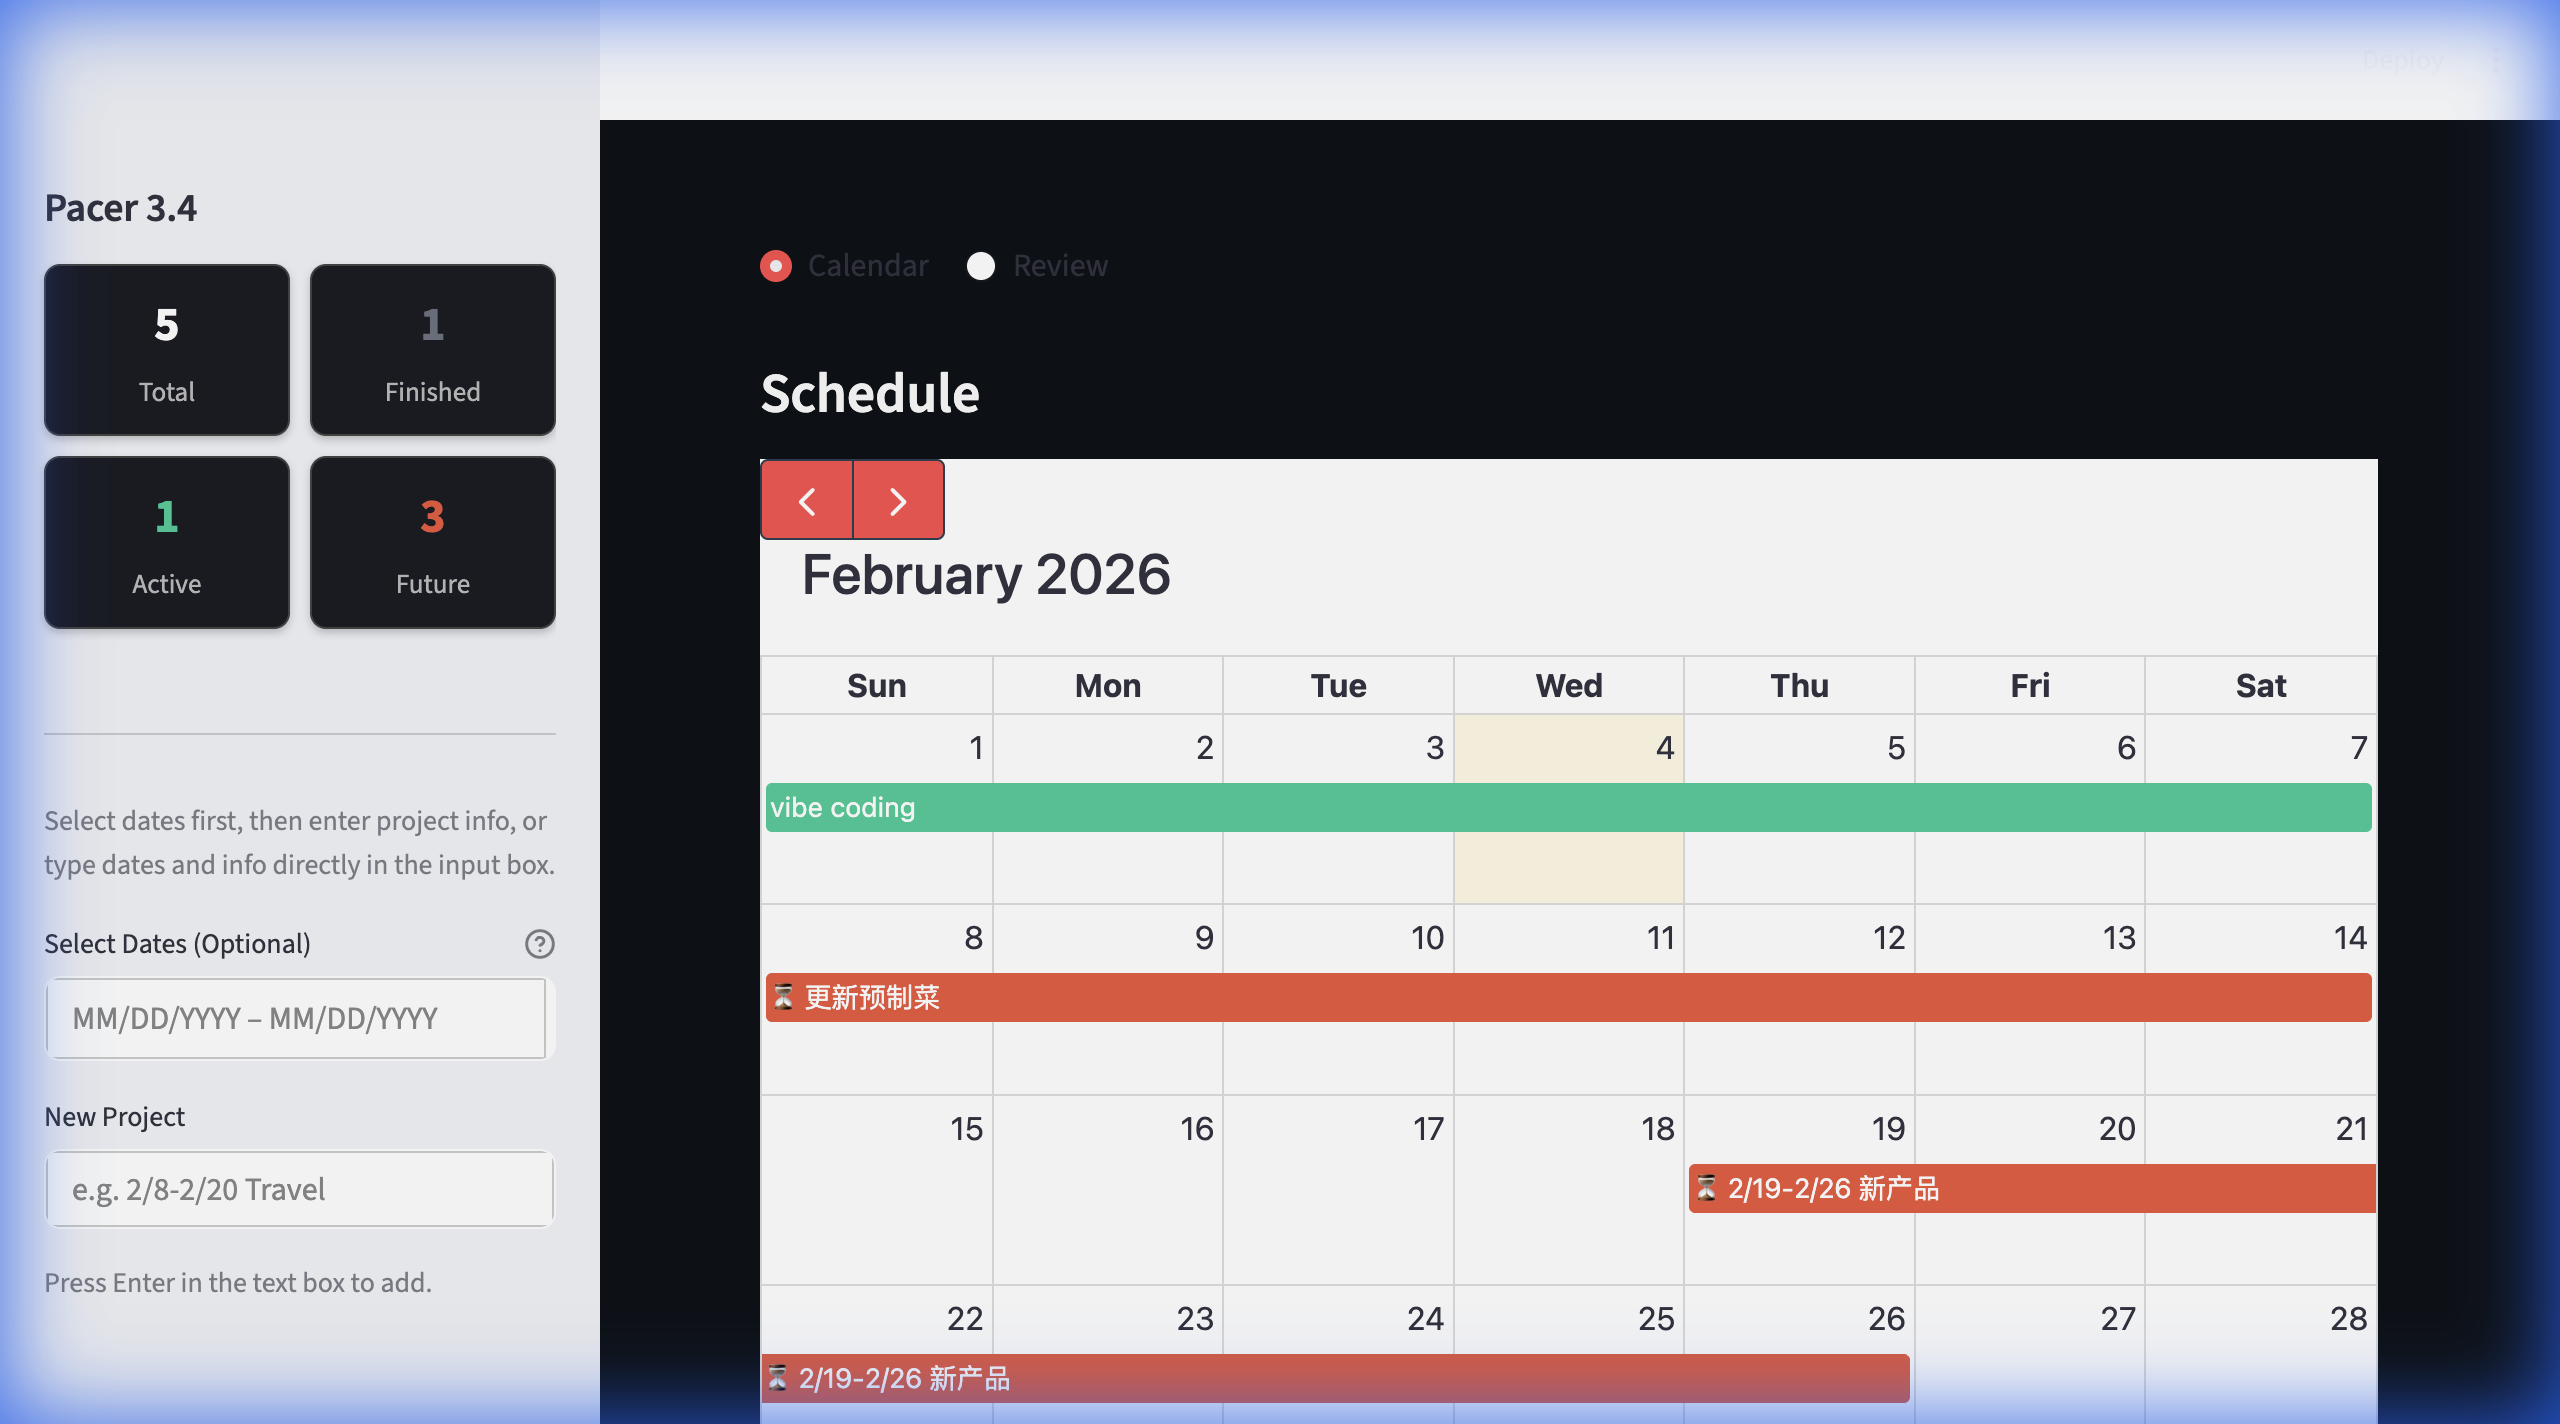
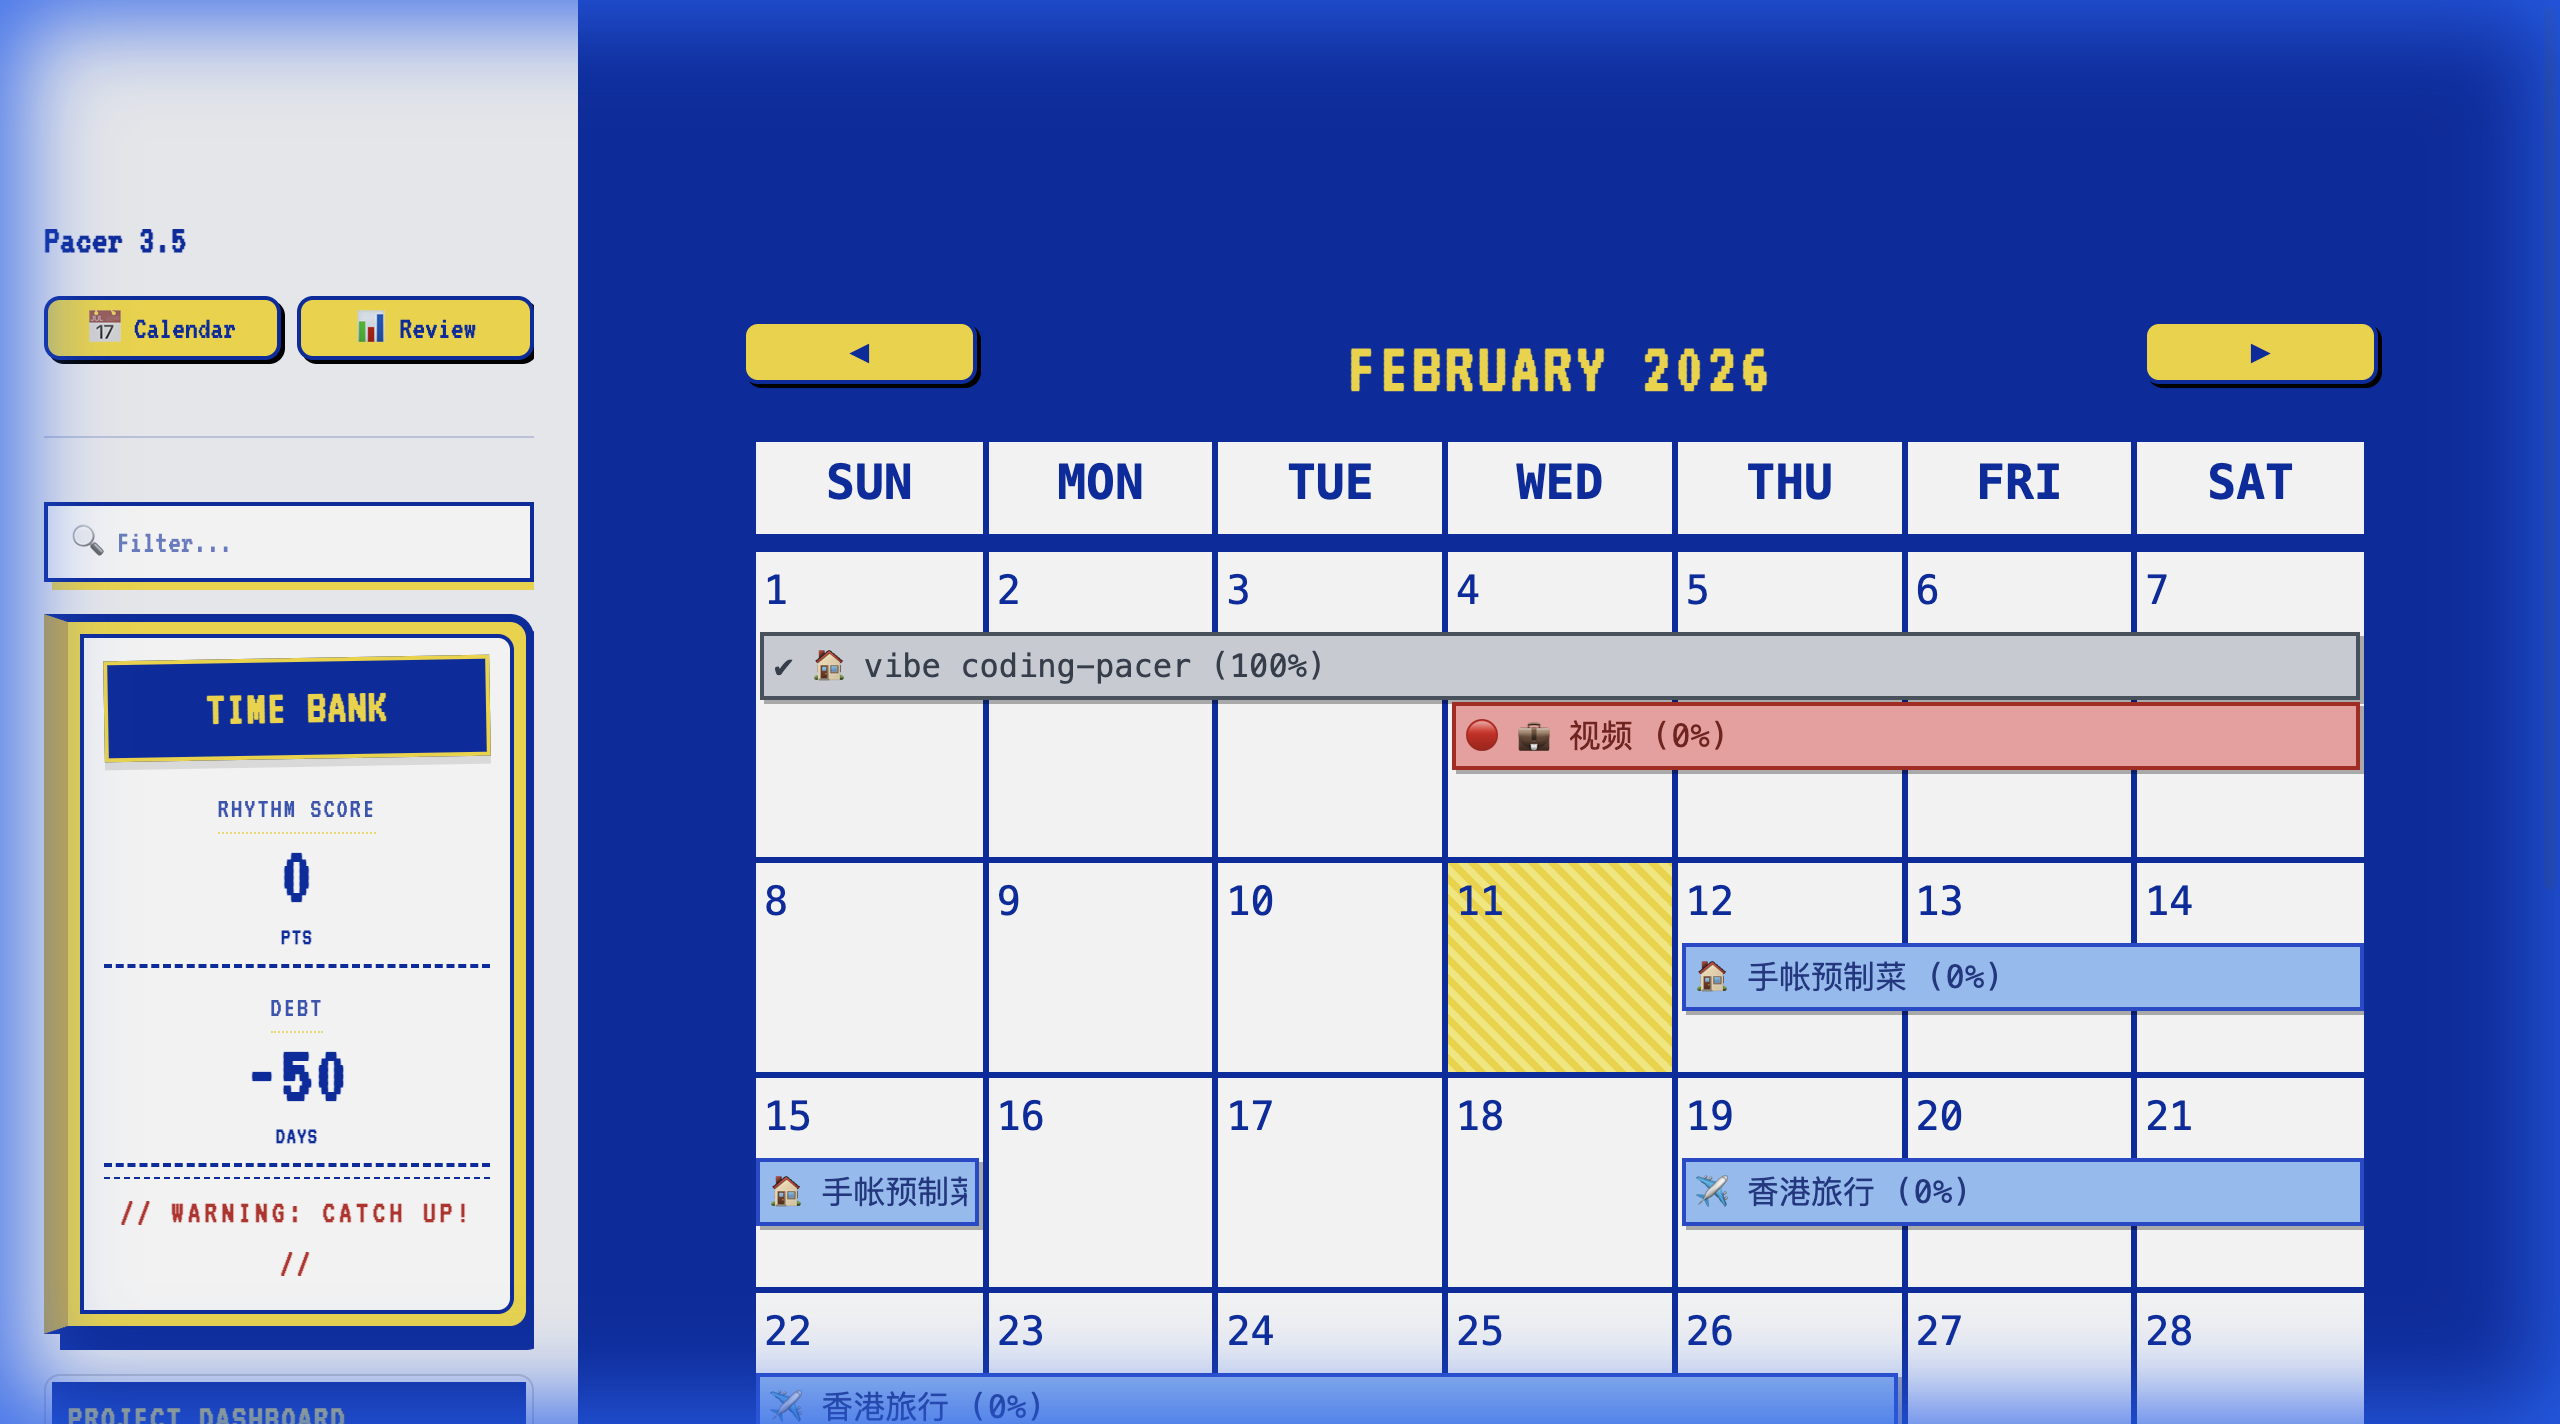
Docs: Update README with new screenshots and Hourglass/Beaker highlight

diff --git a/app.py b/app.py
@@ -1401,8 +1401,14 @@ if view_mode == "Calendar":
     events = []
     today = datetime.now().date()
     
+    # Tag icon mapping for calendar event titles
+    TAG_ICONS = {
+        "Work": "💼", "Personal": "🏠", "Urgent": "🚨", "Health": "💪",
+        "Social": "👥", "Learning": "📚", "Travel": "✈", "Tavel": "✈",
+    }
+
     for p in filtered_projects:
-        # --- Restored Color Logic ---
+        # --- Color Logic: Match PROJECT DASHBOARD categories ---
         status = p.get('status', 'Not Started')
         vis_end = (p['end_date'] + timedelta(days=1)).replace(hour=0, minute=0, second=0, microsecond=0) \
                   if isinstance(p['end_date'], datetime) else p['end_date'] + timedelta(days=1)
@@ -1415,33 +1421,40 @@ if view_mode == "Calendar":
         
         is_overdue = remaining_days <= 0 and pct_exec < 1.0
         is_urgent = remaining_days <= 3 and remaining_days > 0 and pct_exec < 1.0
-        is_completed = (status == "Completed")
+        is_completed = pct_exec >= 1.0
         is_not_started = today < start_dw
         
-        # Pixel Art Palette (Primary Colors)
+        # Colors aligned with PROJECT DASHBOARD sidebar
+        # DONE (gray) / DELAYED (red) / PLANNED (blue) / ACTIVE (yellow)
         if is_completed:
-            bg_color = "#E0E0E0"    # Light Grey
-            border_color = "#757575"
-            text_color = "#424242"
-            title_prefix = "✔ "
+            bg_color = "#D1D5DB"    # Gray (matches DONE #4B5563)
+            border_color = "#4B5563"
+            text_color = "#374151"
+            status_prefix = "✔ "
         elif is_overdue:
-            bg_color = "#FFCDD2"    # Red
-            border_color = "#C62828"
-            text_color = "#B71C1C"
-            title_prefix = "🔴 "
+            bg_color = "#FCA5A5"    # Red (matches DELAYED #B91C1C)
+            border_color = "#B91C1C"
+            text_color = "#7F1D1D"
+            status_prefix = "🔴 "
         elif is_not_started:
-            bg_color = "#BBDEFB"    # Blue
-            border_color = "#1565C0"
-            text_color = "#0D47A1"
-            title_prefix = "⏳ "
+            bg_color = "#93C5FD"    # Blue (matches PLANNED #1D4ED8)
+            border_color = "#1D4ED8"
+            text_color = "#1E3A8A"
+            status_prefix = ""
         else:
-            # Active / In Progress
-            bg_color = "#FFF9C4"    # Yellow
-            border_color = "#FBC02D"
-            text_color = "#E65100"
-            title_prefix = "⚠ " if is_urgent else ""
+            # Active / In Progress (matches ACTIVE #B45309)
+            bg_color = "#FDE68A"    # Yellow/Amber
+            border_color = "#B45309"
+            text_color = "#78350F"
+            status_prefix = "⚠ " if is_urgent else ""
 
-        title = f"{title_prefix}{p['goal']} ({int(pct_exec*100)}%)"
+        # Build tag icon prefix from first tag
+        tag_icon = ""
+        p_tags = p.get('tags', [])
+        if p_tags:
+            tag_icon = TAG_ICONS.get(p_tags[0], "🏷") + " "
+
+        title = f"{status_prefix}{tag_icon}{p['goal']} ({int(pct_exec*100)}%)"
 
         evt = {
             "title": title,
@@ -1489,8 +1502,9 @@ if view_mode == "Calendar":
         background-size: 10px 10px;
     }
     .fc-daygrid-event {
-        border: 2px solid #000000 !important;
-        box-shadow: 2px 2px 0px 0px rgba(0,0,0,0.5) !important;
+        border-width: 2px !important;
+        border-style: solid !important;
+        box-shadow: 2px 2px 0px 0px rgba(0,0,0,0.3) !important;
         border-radius: 0px !important;
         padding: 2px 4px !important;
         font-family: 'VT323', monospace !important;

diff --git a/README.md b/README.md
@@ -28,6 +28,7 @@
 - **📊 Review Dashboard** — KPI 面板、状态分布图、节奏分数、时间债务分析
 - **⏱ 专注计时器** — 内置番茄钟，记录专注时间
 - **🗑 回收站系统** — 误删项目可恢复，像素风回收站UI
+- **⏳ 沙漏 vs 烧杯** — 核心亮点！直观对比"时间流逝"(沙漏)与"执行进度"(烧杯)，警示时间债务
 - **🏆 任务激励** — 完成100%时触发"MISSION ACCOMPLISHED"庆祝动画
 - **🎨 Win98像素美学** — 克莱因蓝+柠檬黄配色，VT323像素字体，像素风按钮和图标
 
@@ -42,17 +43,17 @@
 
 ## 📸 应用截图
 
-| 日历视图 | Review Dashboard |
+| 日历视图 | 侧边栏仪表盘 |
 |:---:|:---:|
-| ![日历视图](screenshots/1_calendar.png) | ![Review KPI](screenshots/2_review_kpi.png) |
+| ![Calendar](screenshots/1_calendar.png) | ![Sidebar](screenshots/2_sidebar.png) |
 
-| 数据下钻 | 数据导出 |
+| ⏳ 核心亮点：沙漏 vs 烧杯 | Review KPI 面板 |
 |:---:|:---:|
-| ![Drilldown](screenshots/3_drilldown.png) | ![Export](screenshots/4_export.png) |
+| ![Project Detail](screenshots/3_hourglass_beaker.png) | ![Review KPI](screenshots/4_review_kpi.png) |
 
-| 项目详情 |
+| 项目列表视图 |
 |:---:|
-| ![Project Detail](screenshots/5_project_detail.png) |
+| ![Review List](screenshots/5_review_list.png) |
 
 ---
 
